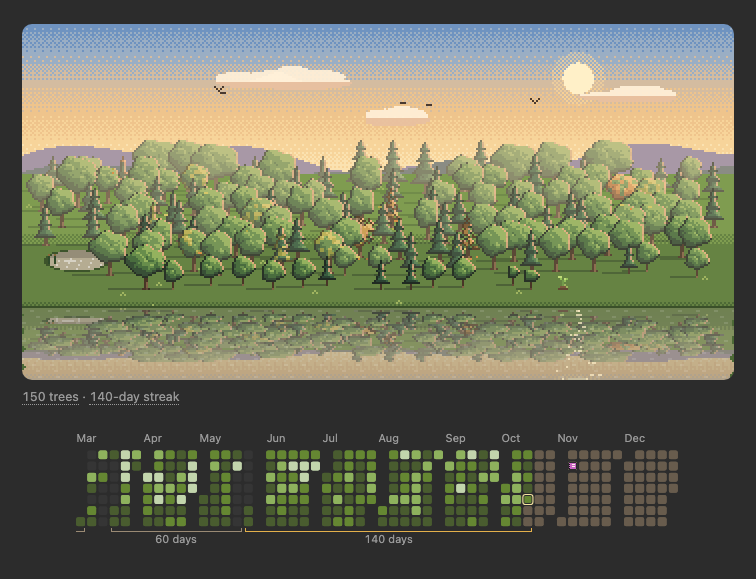
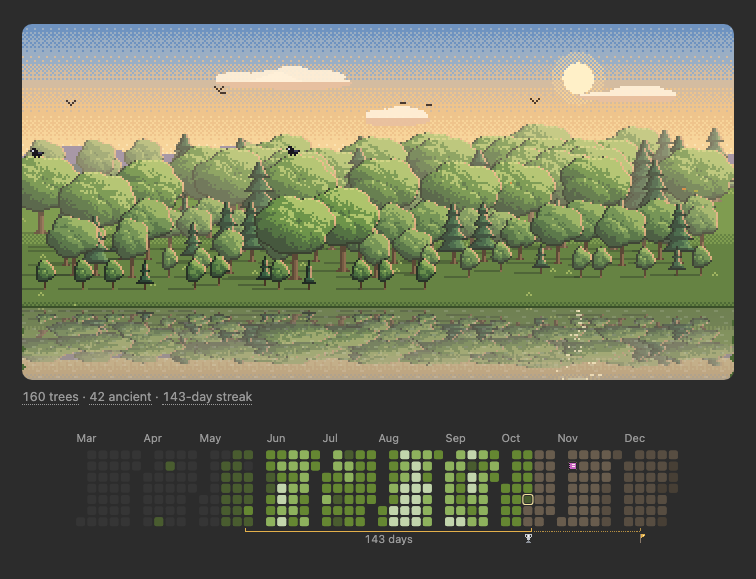
feat: change lanterns' heatmap to round and update docs

Changed region(s): [[0.0304, 0.2176, 0.9735, 0.715], [0.0913, 0.7772, 0.6997, 0.9326], [0.8519, 0.7772, 0.9127, 0.8705]]

diff --git a/dev/docs_pictures.py b/dev/docs_pictures.py
@@ -1,24 +1,29 @@
 """Draw the README's heatmap pictures, docs/calendar.png and docs/calendar_sceneries.png, from this
-copy's scripts with a made-up forest and history (never anyone's own reviews), in headless Chrome.
+copy's scripts in headless Chrome. Uses made-up history unless --collection is supplied.
 
     python3 dev/docs_pictures.py      (npm run docs-pictures)
+    python3 dev/docs_pictures.py --collection /path/to/collection.anki2
 
 calendar.png: the forest by the lake with its heatmap under it, visible streak labels,
-the trophies and the goal's flag, and one important day ahead.
+the current streak's silver trophy, its next goal's flag, and an upcoming exam note.
 calendar_sceneries.png: one heatmap in four base sceneries, each beside its picker picture, with
-its trophies and flag and no other marks. Needs Chrome, and node with the dev packages.
+its current trophy and flag and no other streak markers. Needs Chrome, and node with the dev packages.
 """
 
 from __future__ import annotations
 
+import argparse
 import datetime as dt
 import importlib
 import json
 import os
 import random
+import sqlite3
 import subprocess
 import sys
 import tempfile
+from contextlib import closing
+from pathlib import Path
 
 HERE = os.path.dirname(os.path.abspath(__file__))
 ADDON = os.path.dirname(HERE)
@@ -46,8 +51,7 @@ HISTORY = 520
 STREAKS = ((0, 139), (150, 209), (230, 409))
 SCATTER = 0.35  # (the share of the days studied outside a streak)
 SEED = 20261016
-MARK_AHEAD = 18  # (an exam this many days ahead, its countdown in the tooltip)
-SCENERIES = ("golden_lake", "aurora", "lanterns", "synthwave")  # (base sceneries only: the README is the base edition's)
+SCENERIES = ("golden_lake", "starry_night", "lanterns", "synthwave")
 
 
 def history() -> dict:
@@ -69,6 +73,36 @@ def history() -> dict:
     return {"start": (today - dt.timedelta(days=HISTORY - 1)).isoformat(), "days": days, "time": time, "due": due}
 
 
+REAL_DATA = None
+REAL_HISTORY = None
+
+
+def collection_data(path: str) -> None:
+    """Read a consistent snapshot; never write to the user's collection."""
+    global REAL_DATA, REAL_HISTORY
+    import export_payload as export
+
+    db = export.DB(":memory:")
+    with closing(sqlite3.connect(Path(path).expanduser().resolve().as_uri() + "?mode=ro", uri=True)) as source:
+        source.backup(db.con)
+    try:
+        rollover = int(db.scalar("select val from config where key = 'rollover'") or 4)
+        cutoff = export.day_cutoff(rollover)
+        today = export.sched_today(int(db.scalar("select crt from col")), cutoff, rollover)
+        rows = export.study_log.load_rows(db, cutoff)
+        forest = export.forest_data.merge_old(export.forest_data.build_forest(rows, cutoff, today, dt.datetime.now().timestamp()))
+        REAL_DATA = {"trees": forest["trees"], "stats": forest["stats"], "merged": forest.get("merged"), "forestSeed": forest["forest_seed"]}
+        reviews = export.study_log.load_day_reviews(db, cutoff, None)
+        times = export.study_log.load_day_time(db, cutoff, None)
+        oldest = max(reviews, default=0)
+        REAL_HISTORY = {"start": export.study_log.day_date(oldest, cutoff).isoformat(),
+                        "days": [reviews.get(a, 0) for a in range(oldest, -1, -1)],
+                        "time": [times.get(a, 0) for a in range(oldest, -1, -1)],
+                        "due": export.study_log.load_due(db, today, 366)}
+    finally:
+        db.con.close()
+
+
 def mood_of(key: str) -> dict:
     p = presets.by_key()[key]
     return scene.choose_mood({"environment": p.environment, "landscape": p.landscape, "landmark": p.landmark,
@@ -77,7 +111,7 @@ def mood_of(key: str) -> dict:
 
 def calendar(mood: dict, marks: list) -> dict:
     look = HL.page_look({}, mood)
-    return dict(history(), view="timeline", weekStart=1, shadeBy="reviews", animals=[], breakDays=7, browse=False,
+    return dict(REAL_HISTORY or history(), view="timeline", weekStart=1, shadeBy="reviews", animals=[], breakDays=7, browse=False,
                 marks=marks, free=[], daysOff=[], streakFromStart=False, look=look)
 
 
@@ -86,22 +120,31 @@ def page(mood: dict, data: dict, width: int, extra_css: str = "") -> str:
     files = [os.path.join(catalog.WEB, s) for s in catalog.SCRIPTS]
     files += [os.path.join(catalog.WEB, f) for f in catalog.scenery_files(mood)]
     files += [os.path.join(catalog.WEB, f) for f in data["calendar"]["look"].get("files", [])]
-    tags = "".join(f'<script src="file://{f}"></script>' for f in dict.fromkeys(files))
+    tags = ""
+    for f in dict.fromkeys(files):
+        if os.path.basename(f) == "calendar.js":
+            # Screenshot presentation only: keep the real ranking, show just the current streak.
+            script = Path(f).read_text()
+            script = script.replace("for (const r of H.runs) {", "for (const r of [H.current].filter(Boolean)) {")
+            script = script.replace("for (const [run, i] of H.podium) lane.push", "for (const [run, i] of H.podium) if (run === H.current) lane.push")
+            tags += f"<script>{script}</script>"
+        else:
+            tags += f'<script src="file://{f}"></script>'
     return f"""<!doctype html><meta charset="utf-8"><style>body {{ margin: 0; padding: 0; background: {PAGE_BG}; color: {PAGE_FG};
---fg: {PAGE_FG}; --fg-subtle: #999 }} #p {{ width: {width}px; padding: 24px 22px 10px }} {css} {extra_css}</style>
+--fg: {PAGE_FG}; --fg-subtle: #999 }} #p {{ width: {width}px; padding: 24px 22px 10px }} {css} .af-cal-tip {{ display: none !important }} .af-cal .af-cal-above {{ opacity: 1 }} {extra_css}</style>
 <div class="af-panel" id="p"></div><script>window.pycmd = () => false;</script>{tags}
 <script>AnkiForest.mount(document.getElementById('p'), {json.dumps(data)});</script>"""
 
 
 def forest_data(mood: dict) -> dict:
-    """The dev payload's settings with a made-up forest: its trees, and a caption that agrees with
-    the history (the current streak, the longest)."""
+    """Preview settings with the chosen forest and matching study statistics."""
     raw = open(os.path.join(HERE, "payload.js"), encoding="utf-8").read()
     data = json.loads(raw.split("=", 1)[1].strip().rstrip(";"))
     forest = fake_forest.make(150)
     stats = dict(forest["stats"], streak=STREAKS[0][1] + 1, longest_streak=STREAKS[2][1] - STREAKS[2][0] + 1)
-    return dict(data, trees=forest["trees"], stats=stats, visitors=[], anniversaries=[], events=[], journal="",
-                forestSeed=forest["forest_seed"], mood=mood, animations=False, inAnki=True, maxWidth=756)
+    data.update(REAL_DATA or {"trees": forest["trees"], "stats": stats, "forestSeed": forest["forest_seed"]})
+    return dict(data, visitors=[], anniversaries=[], events=[], journal="",
+                mood=mood, animations=False, inAnki=True, maxWidth=756)
 
 
 SHOOT = r"""
@@ -115,18 +158,19 @@ for (const j of jobs) {
   await p.goto('file://' + j.page);
   await p.waitForSelector('.af-cal-canvas', { timeout: 15000 });
   await new Promise(r => setTimeout(r, 1500));
-  if (j.point) {  // (a day of the current streak, some weeks back: its tooltip between the trophies)
-    const box = await p.$eval('.af-cal-canvas', e => { const r = e.getBoundingClientRect(); return [r.left, r.top, r.width, r.height]; });
-    let tip = '';
-    for (let x = box[0] + box[2] * j.point[0]; x < box[0] + box[2] * j.point[1] && !/of your/.test(tip); x += 3) {
-      await p.mouse.move(x, box[1] + box[3] * 0.12);
-      await new Promise(r => setTimeout(r, 450));  // (the tooltip waits a moment, calendar.js TIP_WAIT)
-      tip = await p.$eval('.af-cal-tip', e => e.hidden ? '' : e.innerText);
-    }
-    console.log(j.out, '|', tip.replace(/\n/g, ' / '));
-  }
   const el = await p.$(j.shoot);
-  await el.screenshot({ path: j.out });
+  if (j.fromMonth !== undefined) {
+    const clip = await el.evaluate((e, month) => {
+      const r = e.getBoundingClientRect();
+      const start = e.querySelector(`.af-cal-months span[data-m="${month}"]`);
+      if (!start) throw new Error('Comparison start month is outside the timeline');
+      const x = Math.max(r.left, Math.floor(start.getBoundingClientRect().left) - 2);
+      return { x, y: r.top, width: r.right - x, height: r.height };
+    }, j.fromMonth);
+    await p.screenshot({ path: j.out, clip });
+  } else {
+    await el.screenshot({ path: j.out });
+  }
 }
 await b.close();
 """
@@ -175,26 +219,31 @@ def sceneries_picture(shots: dict, out: str) -> None:
 
 
 def main() -> None:
+    parser = argparse.ArgumentParser(description=__doc__)
+    parser.add_argument("--collection", help="Use your own review history and forest (read-only)")
+    args = parser.parse_args()
+    if args.collection:
+        collection_data(args.collection)
     lake = mood_of("golden_lake")
-    exam = [{"day": (dt.date.today() + dt.timedelta(days=MARK_AHEAD)).isoformat(), "icon": "exam", "name": "Exam"}]
     with tempfile.TemporaryDirectory() as tmp:
         jobs = []
         # the big picture: the forest and its heatmap, with the streak labels unobstructed
-        big = dict(forest_data(lake), calendar=calendar(lake, exam), showForest=True)
+        note = {"day": (dt.date.today() + dt.timedelta(days=18)).isoformat(), "icon": "exam", "name": "Exam"}
+        big = dict(forest_data(lake), calendar=calendar(lake, [note]), showForest=True)
         path = os.path.join(tmp, "big.html")
         with open(path, "w", encoding="utf-8") as f:
             f.write(page(lake, big, 756, ".af-cog { display: none !important }"))
         jobs.append({"page": path, "width": 800, "shoot": "#p", "out": os.path.join(DOCS, "calendar.png")})
-        # the sceneries: the heatmap alone, its trophies and flag shown as the pointer shows them
+        # the sceneries: the heatmap alone, with only the current trophy and flag revealed
         shots = {}
         for key in SCENERIES:
             mood = mood_of(key)
-            data = dict(forest_data(mood), calendar=calendar(mood, []), showForest=False, maxWidth=560)
+            data = dict(forest_data(mood), calendar=calendar(mood, []), showForest=False, maxWidth=756)
             path = os.path.join(tmp, f"{key}.html")
             with open(path, "w", encoding="utf-8") as f:
-                f.write(page(mood, data, 560, ".af-cal .af-cal-above { opacity: 1 } .af-cal-foot, .af-cal-notes { display: none }"))
+                f.write(page(mood, data, 756, ".af-cal .af-cal-above { opacity: 1 } .af-cal-foot, .af-cal-notes { display: none }"))
             shots[key] = os.path.join(tmp, f"{key}.png")
-            jobs.append({"page": path, "width": 620, "shoot": ".af-cal", "out": shots[key]})
+            jobs.append({"page": path, "width": 800, "shoot": ".af-cal", "fromMonth": 3, "out": shots[key]})
         shoot(jobs)
         sceneries_picture(shots, os.path.join(DOCS, "calendar_sceneries.png"))
     print("docs/calendar.png, docs/calendar_sceneries.png")

diff --git a/heatmap_look.py b/heatmap_look.py
@@ -156,10 +156,12 @@ def tile_gap(cfg: dict, here: str = "") -> int | None:
 def tile_style(cfg: dict, here: str = "") -> str:
     """The style the heatmap is drawn in for `cfg` while the scenery's environment is `here`:
     Scenery's is that scenery's own (the style its environment draws, TILE_ENVS: Brush on Starry
-    night, a holiday's in its week), else Flat; any other is itself if it can be had just now
+    night, Round on Lanterns, a holiday's in its week), else Flat; any other is itself if it can be had just now
     (tile_shown), else Flat."""
     choice = tiles_choice(cfg)
     if choice == TILE_FOLLOW:
+        if here == "lanterns":
+            return "round"
         return next((k for k, env in TILE_ENVS.items() if env == here and tile_shown(k, cfg)), TILE_DEFAULT)
     return choice if tile_shown(choice, cfg) else TILE_DEFAULT
 

diff --git a/tests/test_heatmap_look.py b/tests/test_heatmap_look.py
@@ -56,6 +56,10 @@ class ChoiceTests(unittest.TestCase):
         self.assertEqual(look["files"], [])  # (its colour comes from KEYS_FILE, not its scenery's file)
 
     def test_scenery_s_style_follows_the_scenery_and_a_chosen_one_stays(self):
+        lanterns = {"special": "lanterns"}
+        look = HL.page_look({}, lanterns)
+        self.assertEqual((look["tile"], look["smooth"], look["gap"]), ("round", True, 2))
+        self.assertEqual(HL.page_look({"calendar_tiles": "flat"}, lanterns)["tile"], "flat")
         starry, synth = {"special": "starry_night"}, {"special": "synthwave"}
         # The public/base copy lacks Starry Night: its tiles fall back to Flat.
         has_starry = os.path.isfile(os.path.join(ADDON_DIR, "web", "envs", "starry_night.js"))
